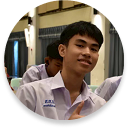
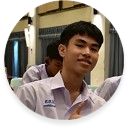
fix svg

diff --git a/src/App.jsx b/src/App.jsx
@@ -3,34 +3,34 @@ import { FaInstagram } from "react-icons/fa";
 import { FaGithub } from "react-icons/fa";
 import { FaCircleInfo } from "react-icons/fa6";
 import me from './assets/me.png';
-import ig from "./assets/instagram.png";
-import github from "./assets/github.png";
-import html from "./assets/html.png";
-import css from "./assets/css.png";
-import js from "./assets/js.png";
-import react from "./assets/react.png";
-import nodejs from "./assets/nodejs.png";
-import python from "./assets/python.png";
-import c from "./assets/c.png";
-import svelte from "./assets/svelte.png";
-import arduino from "./assets/arduino.png";
-import lua from "./assets/lua.png";
-import tailwind from "./assets/tailwind.png";
+import ig from "./assets/ig.svg";
+import github from "./assets/github.svg";
+import html from "./assets/html.svg";
+import css from "./assets/css.svg";
+import js from "./assets/js.svg";
+import react from "./assets/react.svg";
+import nodejs from "./assets/nodejs.svg";
+import python from "./assets/python.svg";
+import c from "./assets/c.svg";
+import svelte from "./assets/svelte.svg";
+import arduino from "./assets/arduino.svg";
+import lua from "./assets/lua.svg";
+import tailwind from "./assets/tailwind.svg";
 import "./App.css";
 
 function App() {
   const [skills, setskills] = useState({
-    HTML: <img src={html} alt="HTML" />,
-    CSS: <img src={css} alt="CSS" />,
-    JavaScript: <img src={js} alt="JavaScript" />,
-    React: <img src={react} alt="React" />,
-    NodeJs: <img src={nodejs} alt="NodeJs" className="w-[15px] h-[15px]" />,
-    "Svelte & SvelteKit": <img src={svelte} alt="Svelte" />,
-    "Arduino basics": <img src={arduino} alt="Arduino" />,
-    "Lua basic": <img src={lua} alt="Lua" />,
-    Python: <img src={python} alt="Python" />,
-    "C basics": <img src={c} alt="C" />,
-    "Tailwindcss": <img src={tailwind} alt="Tailwind CSS" />,
+    HTML: <img src={html} className="w-[16px] h-[16px]" alt="HTML" />,
+    CSS: <img src={css} className="w-[16px] h-[16px]" alt="CSS" />,
+    JavaScript: <img src={js} className="w-[16px] h-[16px]" alt="JavaScript" />,
+    React: <img src={react} className="w-[16px] h-[16px]" alt="React" />,
+    NodeJs: <img src={nodejs} className="w-[16px] h-[16px]" alt="NodeJs" />,
+    "Svelte & SvelteKit": <img src={svelte} className="w-[16px] h-[16px]" alt="Svelte" />,
+    "Arduino basics": <img src={arduino} className="w-[16px] h-[16px]" alt="Arduino" />,
+    "Lua basic": <img src={lua} className="w-[16px] h-[16px]" alt="Lua" />,
+    Python: <img src={python} className="w-[16px] h-[16px]" alt="Python" />,
+    "C basics": <img src={c} className="w-[16px] h-[16px]" alt="C" />,
+    "Tailwindcss": <img src={tailwind} className="w-[16px] h-[16px]" alt="Tailwind CSS" />,
   });
 
   return (
@@ -49,7 +49,7 @@ function App() {
           className="absolute top-[65px] left-[25px] bg-transparent bg-[#111111]"
           id="ProfileImage"
         />
-        <h1 className="text-white text-[24px] absolute top-[200px] left-[25px]">
+        <h1 id="myName" className="text-white text-[24px] absolute top-[200px] left-[25px]">
           Nonthapat Thabphan
         </h1>
         <p className="text-[16px] text-white absolute top-[238px] left-[25px] font-light">

diff --git a/src/App.css b/src/App.css
@@ -103,3 +103,26 @@
     height: 1050px;
   }
 }
+
+@media (max-width: 335px){
+  #technicalSkills{
+    position: relative;
+    margin-top: 70px;
+  }
+}
+
+@media (max-width: 260px){
+  #myName{
+    font-size: 20px;
+  }
+
+  #technicalSkills{
+    position: relative;
+    margin-top: 140px;
+  }
+
+  #NoProject{
+    height: 100px;
+    margin-top: 230px;
+  }
+}
